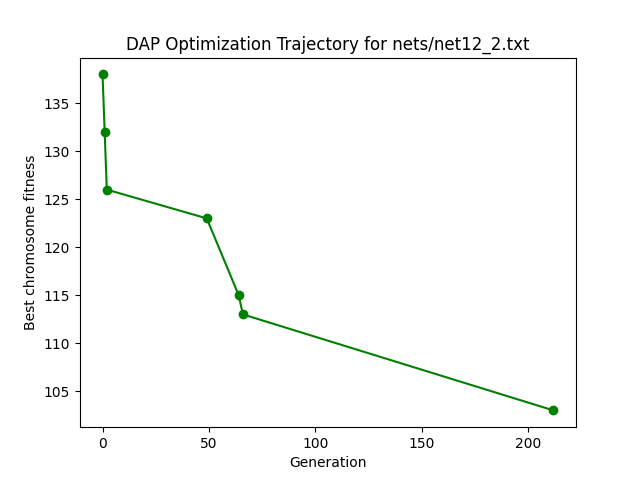
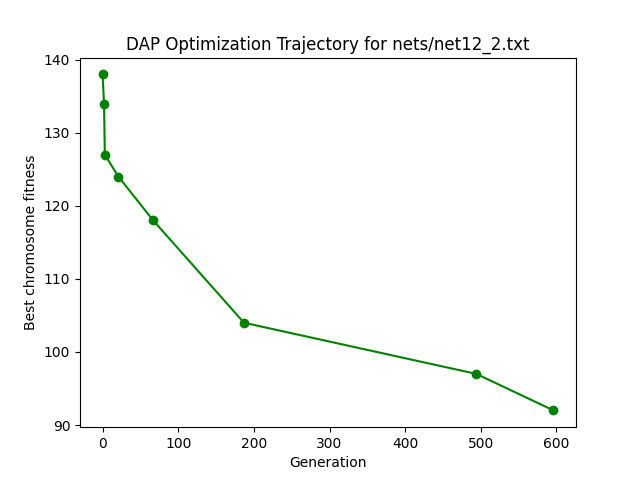
best results and change to OastParser

diff --git a/main.py b/main.py
@@ -1,7 +1,7 @@
 import math
 from matplotlib import pyplot
 from Result import Result
-import oast_parser
+import OastParser
 import EvolutionaryAlgorithm
 import time
 import random
@@ -23,9 +23,9 @@ import sys
 
 # init algorithm parameters
 not_improved_in_N_generations = 0
-initial_population_size = 25
-mutation_probability = 0.05
-crossover_probability_mul = 1.0
+initial_population_size = 100
+mutation_probability = 0.75
+crossover_probability_mul = 1
 seed = 97492493748
 random.seed(seed)
 
@@ -33,7 +33,7 @@ EvolutionaryAlgorithm.algorithm = "DDAP"
 network = "nets/net12_2.txt"
 stop_input = "2"
 max_number_of_seconds = 15
-max_number_of_generations = 300
+max_number_of_generations = 800
 max_number_of_mutations = 100
 max_unimproved_generations = 10
 
@@ -129,8 +129,8 @@ with open(network, "r") as network_file:
     start_time = time.time()
 
     # Get parameters from file
-    links_list = oast_parser.get_links(network)
-    demand_list = oast_parser.get_demands(network)
+    links_list = OastParser.get_links(network)
+    demand_list = OastParser.get_demands(network)
 
     # Init population
     current_population = EvolutionaryAlgorithm.generate_first_population(demand_list, initial_population_size)
